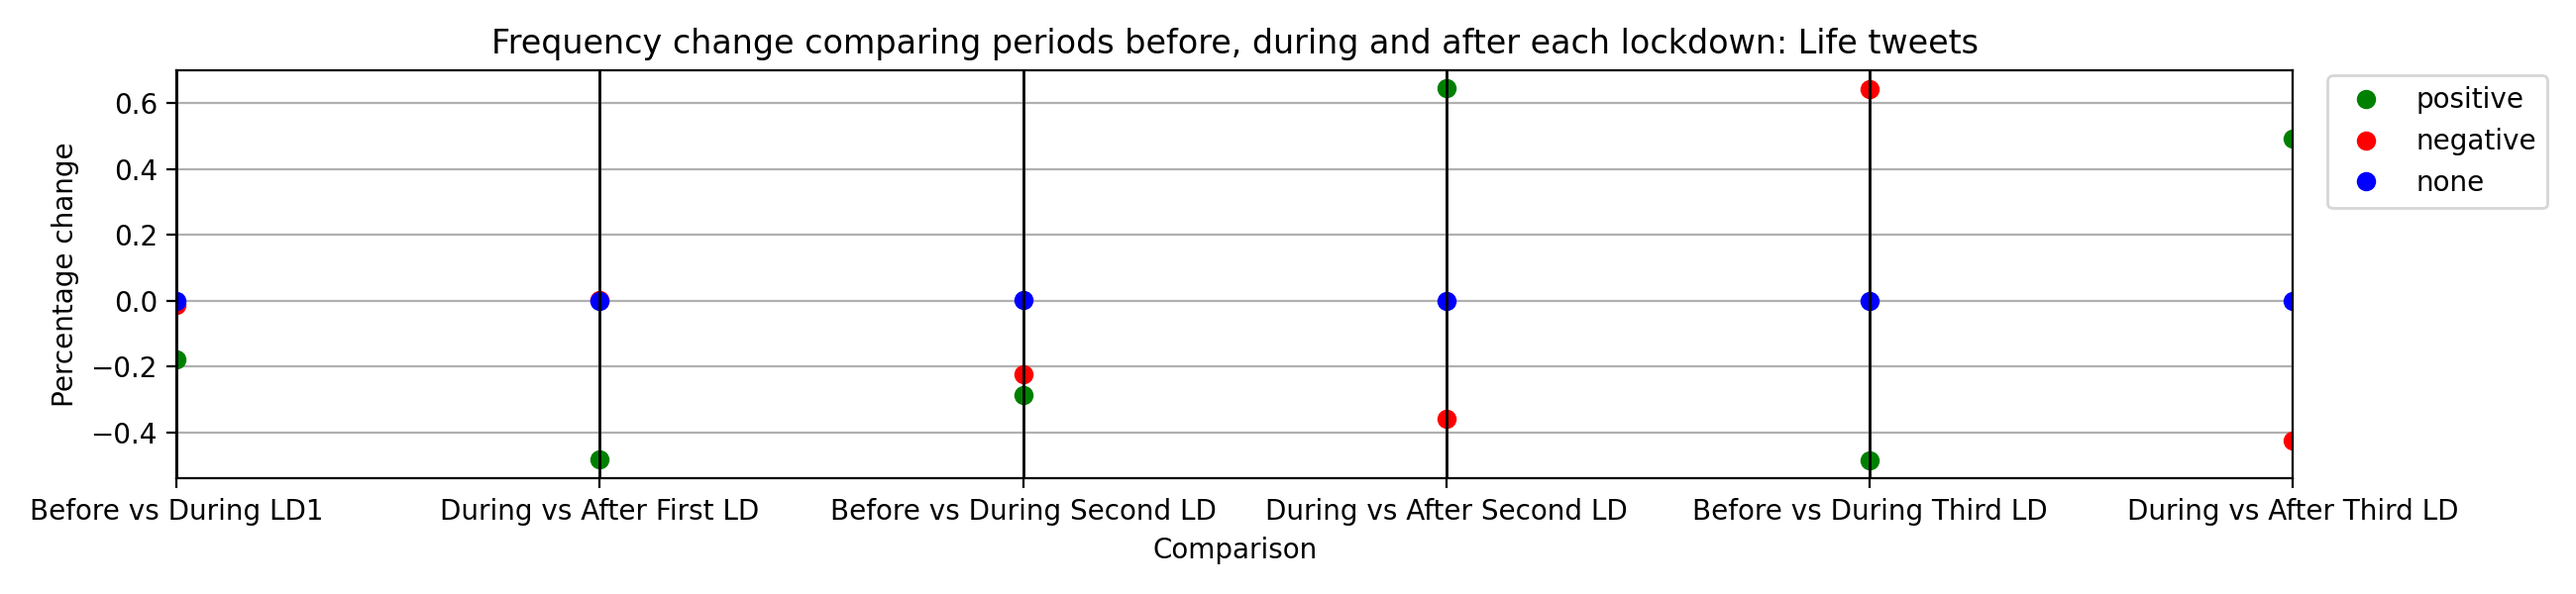
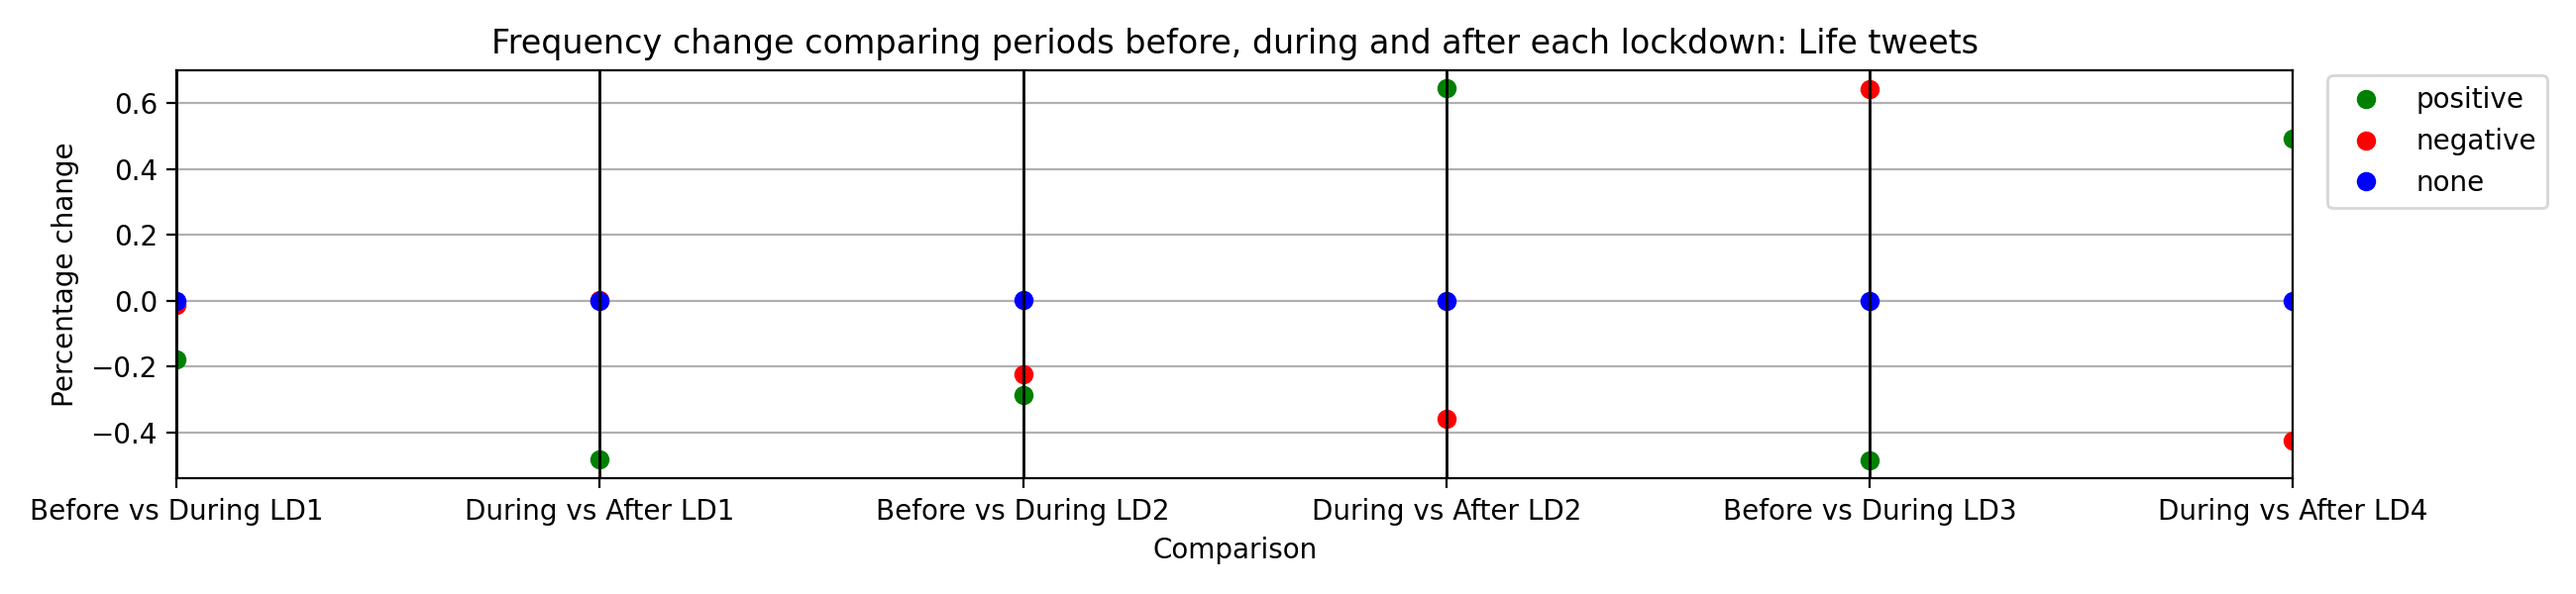
make labels consistent on sentiment plot

Changed region(s): [[0.1558, 0.84, 0.6231, 0.9], [0.6542, 0.84, 0.9658, 0.9]]

diff --git a/sentiment/sentiment_plots.py b/sentiment/sentiment_plots.py
@@ -54,7 +54,7 @@ def make_plot():
     work1b, life1b = get_frequency_change(during1, after1)
     work2b, life2b = get_frequency_change(during2, after2)
     work3b, life3b = get_frequency_change(during3, after3)
-    x_names = ["Classes", "Before vs During LD1", "During vs After First LD", "Before vs During Second LD", "During vs After Second LD", "Before vs During Third LD", "During vs After Third LD"]
+    x_names = ["Classes", "Before vs During LD1", "During vs After LD1", "Before vs During LD2", "During vs After LD2", "Before vs During LD3", "During vs After LD4"]
 
     #WORK DF
     work_df = pd.DataFrame(columns=x_names)
